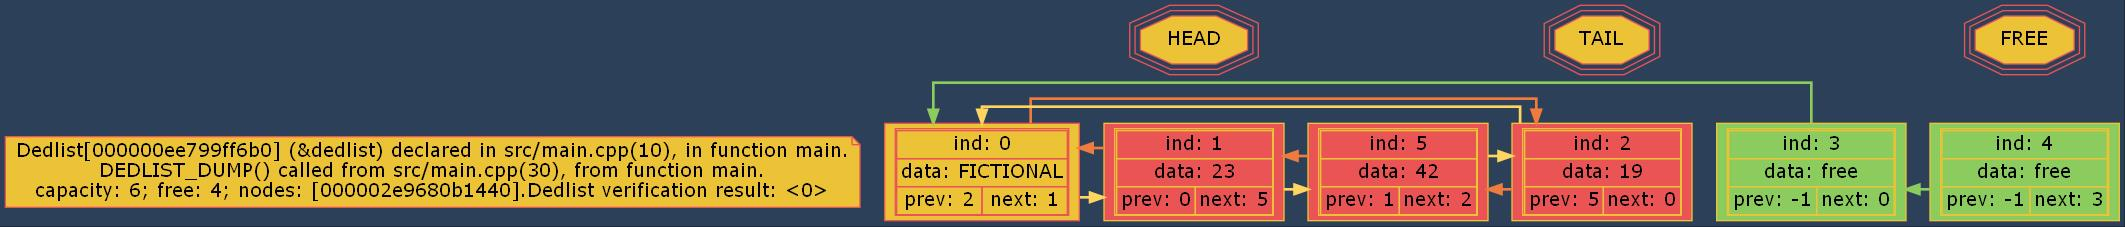
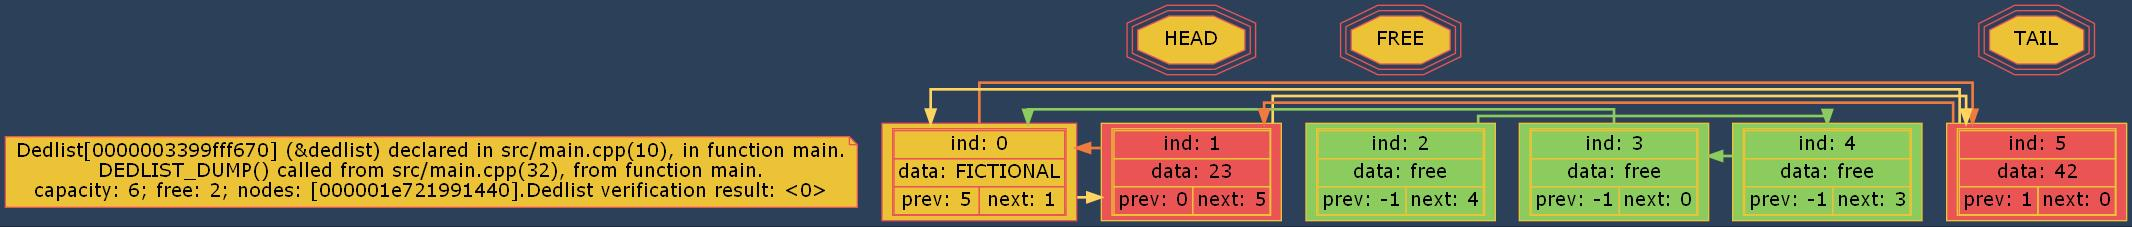
изменения в графическом дампе
добавлена поддержка печати любых типов, а не только int

diff --git a/src/dedlist.cpp b/src/dedlist.cpp
@@ -358,17 +358,17 @@ inline DedlistStatusCode write_dot_file_for_dump_(  FILE *dot_file,
         if ( !is_node_free_(dedlist_ptr, ind) )
         {
             // occupied node
-            // TODO - сделать печать любых типов, а не int
             fprintf(dot_file,   "NODE_%llu[shape=\"record\", fontname=\"verdana\",\n"
                                 "style=bold, style=filled,\n"
                                 "color=\"" COLOR_OCCUP_NODE_COLOR "\", fillcolor=\"" COLOR_OCCUP_NODE_FILL "\",\n"
                                 "label = <<table cellspacing=\"0\">\n"
                                 "<tr><td colspan=\"2\">ind: %llu</td></tr>\n"
-                                "<tr><td colspan=\"2\">data: %d</td></tr>\n"
+                                "<tr><td colspan=\"2\">data: ",
+                                ind,
+                                ind);
+            dedlist_print_elem_t(dot_file, dedlist_ptr->nodes[ind].data );
+            fprintf(dot_file,   "</td></tr>\n"
                                 "<tr><td>prev: %td</td><td>next: %td</td></tr></table>>];\n\n",
-                                ind,
-                                ind,
-                                *( (int*)(dedlist_ptr->nodes + ind) ),
                                 dedlist_ptr->nodes[ind].prev,
                                 dedlist_ptr->nodes[ind].next);
         }
@@ -431,7 +431,6 @@ inline DedlistStatusCode write_dot_file_for_dump_(  FILE *dot_file,
     //--------------------------------------EDGES--------------------------
     for (size_t ind = 0; ind < dedlist_ptr->capacity; ind++)
     {
-        // TODO - вынести в ф-ю проверку на то, какой тип ячейки
         if ( !is_node_free_(dedlist_ptr, ind) )
         {
             // occupied node

diff --git a/src/main.cpp b/src/main.cpp
@@ -27,6 +27,8 @@ int main()
 
     dedlist_delete_head(&dedlist);
 
+    dedlist_delete_tail(&dedlist);
+
     DEDLIST_DUMP(&dedlist, 0);
 
     dedlist_dtor(&dedlist);
